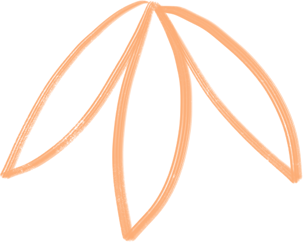
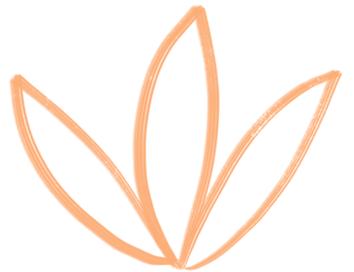
layout and copy iban done

Changed region(s): [[0.0, 0.0, 1.0, 1.0]]

diff --git a/src/pages/index.js b/src/pages/index.js
@@ -1,6 +1,7 @@
 import * as React from "react";
 import figure from "/src/images/figure.png";
 import hands from "/src/images/hands.png";
+import logo from "/src/images/logo.png";
 import text1 from "/src/images/text-1.png";
 import text2 from "/src/images/text-2.png";
 import text3 from "/src/images/text-3.png";
@@ -8,7 +9,6 @@ import text4 from "/src/images/text-4.png";
 import text5 from "/src/images/text-5.png";
 import text6 from "/src/images/text-6.png";
 import leavesOrange1 from "/src/images/leaves-orange-1.png";
-import leavesOrange2 from "/src/images/leaves-orange-2.png";
 import leavesOrangeFaded1 from "/src/images/leaves-orange-faded-1.png";
 import leavesOrangeFaded2 from "/src/images/leaves-orange-faded-2.png";
 import leavesPurple1 from "/src/images/leaves-purple-1.png";
@@ -19,39 +19,109 @@ import leavesPurpleFaded2 from "/src/images/leaves-purple-faded-2.png";
 import mainWhenWhere from "/src/images/main-when-where.png";
 import mainWho from "/src/images/main-who.png";
 import mainRestInfo from "/src/images/main-rest-info.png";
+import mainIban from "/src/images/main-iban.png";
 import * as styles from "./index.module.scss";
-// import { motion } from "framer-motion";
+import {motion, useAnimate} from "framer-motion";
+import {useEffect, useState} from "react";
 
 const IndexPage = () => {
+  const [copied, setCopied] = useState(false);
+  useEffect(() => {
+    if (copied) {
+      setTimeout(() => {
+        setCopied(false);
+      }, 1500);
+    }
+  }, [copied])
+  const [hero, animate] = useAnimate();
+  const [heroImagesLoaded, setHeroImagesLoaded] = useState(false);
+  useEffect(()=>{
+    const heroImages = hero.current.querySelectorAll('img');
+    let loadedCount = 0;
+    heroImages.forEach((image)=>{
+      image.addEventListener('load',()=>{
+        loadedCount++;
+        if(loadedCount === heroImages.length){
+          setHeroImagesLoaded(true);
+        }
+      })
+    })
+  }, [])
+  useEffect(()=>{
+    if(heroImagesLoaded){
+      animate('.blurrer', {
+        // y: '100%',
+        opacity: 0
+      }, {
+        delay: 2,
+        duration: 1
+      });
+    }
+  }, [heroImagesLoaded])
   return (
     <main style={{}}>
-      <div className={`relative ${styles.handsWrapper}`}>
+      <div className={`relative ${styles.handsWrapper} ${heroImagesLoaded ? 'opacity-100' : 'opacity-0'}`} ref={hero}>
+        <div className={`blurrer fixed z-10 pointer-events-none w-full h-screen overflow-hidden backdrop-blur-sm bg-white/50 ${styles.leavesWrapper}`}>
+          <div className={`${styles.leafWrapper} ${styles.leavesOrange1}`}><img src={leavesOrange1} alt={''} /></div>
+          <div className={`${styles.leafWrapper} ${styles.leavesOrangeFaded1}`}><img src={leavesOrangeFaded2} alt={''} /></div>
+          <div className={`${styles.leafWrapper} ${styles.leavesOrangeFaded2}`}><img src={leavesOrangeFaded2} alt={''} /></div>
+          <div className={`${styles.leafWrapper} ${styles.leavesOrangeFaded3}`}><img src={leavesOrangeFaded1} alt={''} /></div>
+          <div className={`${styles.leafWrapper} ${styles.leavesOrangeFaded4}`}><img src={leavesOrangeFaded1} alt={''} /></div>
+          <div className={`${styles.leafWrapper} ${styles.leavesOrangeFaded5}`}><img src={leavesOrangeFaded1} alt={''} /></div>
+          <div className={`${styles.leafWrapper} ${styles.leavesPurple1}`}><img src={leavesPurple3} alt={''} /></div>
+          <div className={`${styles.leafWrapper} ${styles.leavesPurple2}`}><img src={leavesPurple2} alt={''} /></div>
+          <div className={`${styles.leafWrapper} ${styles.leavesPurple3}`}><img src={leavesPurple1} alt={''} /></div>
+          <div className={`${styles.leafWrapper} ${styles.leavesPurple4}`}><img src={leavesPurple2} alt={''} /></div>
+          <div className={`${styles.leafWrapper} ${styles.leavesPurple5}`}><img src={leavesPurple3} alt={''} /></div>
+          <div className={`${styles.leafWrapper} ${styles.leavesPurple6}`}><img src={leavesPurple1} alt={''} /></div>
+          <div className={`${styles.leafWrapper} ${styles.leavesPurple7}`}><img src={leavesPurple1} alt={''} /></div>
+          <div className={`${styles.leafWrapper} ${styles.leavesPurple8}`}><img src={leavesPurple3} alt={''} /></div>
+          <div className={`${styles.leafWrapper} ${styles.leavesPurple9}`}><img src={leavesPurple3} alt={''} /></div>
+          <div className={`${styles.leafWrapper} ${styles.leavesPurpleFaded1}`}><img src={leavesPurpleFaded1} alt={''} /></div>
+          <div className={`${styles.leafWrapper} ${styles.leavesPurpleFaded2}`}><img src={leavesPurpleFaded1} alt={''} /></div>
+          <div className={`${styles.leafWrapper} ${styles.leavesPurpleFaded3}`}><img src={leavesPurpleFaded1} alt={''} /></div>
+          <div className={`${styles.leafWrapper} ${styles.leavesPurpleFaded4}`}><img src={leavesPurpleFaded2} alt={''} /></div>
+          <div className={`${styles.leafWrapper} ${styles.leavesPurpleFaded5}`}><img src={leavesPurpleFaded2} alt={''} /></div>
+          <div className={`${styles.leafWrapper} ${styles.leavesPurpleFaded6}`}><img src={leavesPurpleFaded2} alt={''} /></div>
+          <div className={`${styles.leafWrapper} ${styles.leavesPurpleFaded7}`}><img src={leavesPurpleFaded2} alt={''} /></div>
+          <div className={`${styles.leafWrapper} ${styles.leavesPurpleFaded8}`}><img src={leavesPurpleFaded2} alt={''} /></div>
+          <div className={`${styles.leafWrapper} ${styles.leavesPurpleFaded9}`}><img src={leavesPurpleFaded1} alt={''} /></div>
+          <div className={`${styles.leafWrapper} ${styles.leavesPurpleFaded10}`}><img src={leavesPurpleFaded2} alt={''} /></div>
+          <div className={`${styles.leafWrapper} ${styles.leavesPurpleFaded11}`}><img src={leavesPurpleFaded2} alt={''} /></div>
+        </div>
         <div className={'absolute w-full h-full'} style={{background: '#f6ecdc'}}></div>
         <img src={figure} alt={''} className={'absolute w-full h-full object-contain object-right'}/>
         <img src={hands} alt={''} className={'absolute w-full h-full object-contain object-right'}/>
-        <img src={text1} alt={''} className={'absolute w-full h-full object-contain object-right'}/>
-        <img src={text2} alt={''} className={'absolute w-full h-full object-contain object-right'}/>
-        <img src={text3} alt={''} className={'absolute w-full h-full object-contain object-right'}/>
-        <img src={text4} alt={''} className={'absolute w-full h-full object-contain object-right'}/>
-        <img src={text5} alt={''} className={'absolute w-full h-full object-contain object-right'}/>
-        <img src={text6} alt={''} className={'absolute w-full h-full object-contain object-right'}/>
-        <div className={'absolute w-full h-full backdrop-blur-sm backdrop-brightness-95'}></div>
-        <img src={leavesOrange1} alt={''} className={'absolute scale-50'}/>
-        <img src={leavesOrange2} alt={''} className={'absolute scale-50'}/>
-        <img src={leavesOrangeFaded1} alt={''} className={'absolute scale-50'}/>
-        <img src={leavesOrangeFaded2} alt={''} className={'absolute scale-50'}/>
-        <img src={leavesPurple1} alt={''} className={'absolute scale-50'}/>
-        <img src={leavesPurple2} alt={''} className={'absolute scale-50'}/>
-        <img src={leavesPurple3} alt={''} className={'absolute scale-50'}/>
-        <img src={leavesPurpleFaded1} alt={''} className={'absolute scale-50'}/>
-        <img src={leavesPurpleFaded2} alt={''} className={'absolute scale-50'}/>
+        <img src={logo} alt={''} className={'absolute w-16 sm:w-20 md:w-24 lg:w-36 left-4'}/>
+        <div className="texts">
+          <img src={text1} alt={''} className={'absolute w-full h-full object-contain object-right'}/>
+          <img src={text2} alt={''} className={'absolute w-full h-full object-contain object-right'}/>
+          <img src={text3} alt={''} className={'absolute w-full h-full object-contain object-right'}/>
+          <img src={text4} alt={''} className={'absolute w-full h-full object-contain object-right'}/>
+          <img src={text5} alt={''} className={'absolute w-full h-full object-contain object-right'}/>
+          <img src={text6} alt={''} className={'absolute w-full h-full object-contain object-right'}/>
+        </div>
       </div>
-      <div className={`flex flex-col gap-16 px-2 py-24 ${styles.mainWrapper}`}>
-        <img src={mainWhenWhere} width={1500} alt={''} className={'w-full max-w-xl mx-auto'}/>
-        <img src={mainWho} width={1916} alt={''} className={'w-full max-w-4xl mx-auto'}/>
-        <img src={mainRestInfo} width={932} alt={''} className={'w-full max-w-2xl mx-auto cursor-pointer'} onClick={()=>{
-          console.log("copy iban")
-        }}/>
+      <div className={`px-2 py-24 md:py-36 lg:py-44`}>
+        <div className={'max-w-screen-sm mx-auto'}>
+          <img src={mainWhenWhere} width={750} alt={''} className={'w-full max-w-xl mx-auto mb-16'}/>
+          <img src={mainWho} width={958} alt={''} className={'w-full max-w-4xl mx-auto mb-16'}/>
+        </div>
+        <div className={'max-w-xs mx-auto'}>
+          <img src={mainRestInfo} width={357} alt={''} className={'w-full max-w-4xl mx-auto mb-16'}/>
+          <p className={`text-center ${copied ? '' : 'invisible'} text-[#A293E4] mb-4`}>το IBAN αντιγράφηκε!</p>
+          <img src={mainIban} width={466} alt={''} className={'w-full max-w-2xl mx-auto cursor-pointer '}  onClick={() => {
+            navigator.clipboard.writeText('GR3201104690000046900148779').then(
+              () => {
+                setCopied(true);
+                console.log('successfully copied IBAN to your clipboard');
+              },
+              () => {
+                console.log('error copying IBAN to clipboard');
+              }
+            )
+          }}/>
+        </div>
       </div>
     </main>
   )

diff --git a/src/pages/index.module.scss b/src/pages/index.module.scss
@@ -1,11 +1,181 @@
-.handsWrapper{
+.handsWrapper {
     //@apply w-screen h-auto;
     padding-bottom: 84%;
 }
-@media (min-aspect-ratio: 2677/2255){
-    .handsWrapper{
+
+.leafWrapper {
+    position: absolute;
+    width: 15%;
+    mix-blend-mode: multiply;
+}
+@media (min-aspect-ratio: 320/568){
+    .leafWrapper {
+        width: 11%;
+    }
+}
+@media (min-aspect-ratio: 1.2/1){
+    .leafWrapper {
+        width: 7%;
+    }
+}
+
+.leavesOrange1 {
+    top: 5%;
+    left: 90%;
+    transform: rotate(150deg) scale(1.4);
+}
+
+.leavesOrangeFaded1 {
+    top: 5%;
+    left: 70%;
+    transform: rotate(180deg);
+}
+
+.leavesOrangeFaded2 {
+    top: 15%;
+    left: 15%;
+    transform: rotate(100deg);
+}
+
+.leavesOrangeFaded3 {
+    top: 50%;
+    left: 15%;
+    transform: rotate(180deg) scale(1.3);
+}
+
+.leavesOrangeFaded4 {
+    top: 46%;
+    left: 47%;
+    transform: rotate(30deg) scale(2.2);
+}
+
+.leavesOrangeFaded5 {
+    top: 85%;
+    left: 70%;
+    transform: rotate(220deg) scale(1.8);
+}
+
+.leavesPurple1 {
+    top: -3%;
+    left: 50%;
+}
+
+.leavesPurple2 {
+    top: 2%;
+    left: 25%;
+    transform: rotate(10deg) scale(1.6);
+}
+
+.leavesPurple3{
+    top: 20%;
+    left: 70%;
+    transform: rotate(140deg) scale(1.2);
+}
+
+.leavesPurple4{
+    top: 20%;
+    left: -3%;
+    transform: rotate(330deg) scale(0.9);
+}
+
+.leavesPurple5 {
+    top: 25%;
+    left: 85%;
+    transform: rotate(330deg) scale(1.2);
+}
+
+.leavesPurple6 {
+    top: 30%;
+    left: 15%;
+    transform: rotate(30deg) scale(1.7);
+}
+
+.leavesPurple7 {
+    top: 55%;
+    left: 80%;
+    transform: rotate(40deg) scale(1.3);
+}
+
+.leavesPurple8 {
+    top: 55%;
+    left: -5%;
+}
+
+.leavesPurple9 {
+    top: 80%;
+    left: 30%;
+    transform: rotate(350deg) scale(1.3);
+}
+
+.leavesPurpleFaded1 {
+    top: 0;
+    left: 4%;
+    transform: rotate(135deg);
+}
+
+.leavesPurpleFaded2 {
+    top: 10%;
+    left: 50%;
+    transform: rotate(40deg) scale(1.6);
+}
+
+.leavesPurpleFaded3{
+    top: 20%;
+    left: 35%;
+    transform: rotate(250deg) scale(1.1);
+}
+
+.leavesPurpleFaded4{
+    top: 35%;
+    left: 60%;
+    transform: rotate(190deg) scale(-2, 2);
+}
+
+.leavesPurpleFaded5 {
+    top: 40%;
+    left: -5%;
+    transform: rotate(230deg) scale(1.4);
+}
+
+.leavesPurpleFaded6 {
+    top: 37%;
+    left: 90%;
+    transform: rotate(90deg) scale(1.3);
+}
+
+.leavesPurpleFaded7 {
+    top: 60%;
+    left: 25%;
+    transform: rotate(210deg) scale(1.6);
+}
+
+.leavesPurpleFaded8 {
+    top: 65%;
+    left: 5%;
+    transform: rotate(100deg) scale(1.3);
+}
+
+.leavesPurpleFaded9 {
+    top: 65%;
+    left: 55%;
+    transform: rotate(350deg) scale(1.4);
+}
+
+.leavesPurpleFaded10 {
+    top: 87%;
+    left: 5%;
+    transform: rotate(170deg) scale(1.7);
+}
+
+.leavesPurpleFaded11 {
+    top: 90%;
+    left: 45%;
+}
+
+@media (min-aspect-ratio: 2677/2255) {
+    .handsWrapper {
         //@apply h-screen;
-        height: 80vh;
+        height: 100vh;
         padding-bottom: 0;
     }
 }
